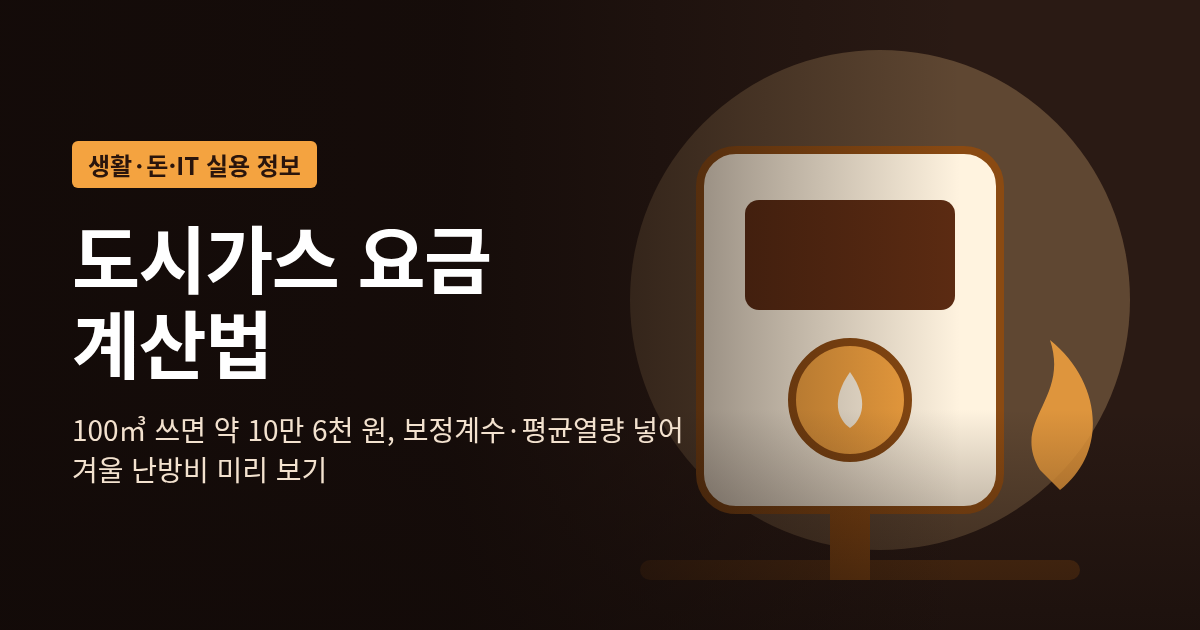
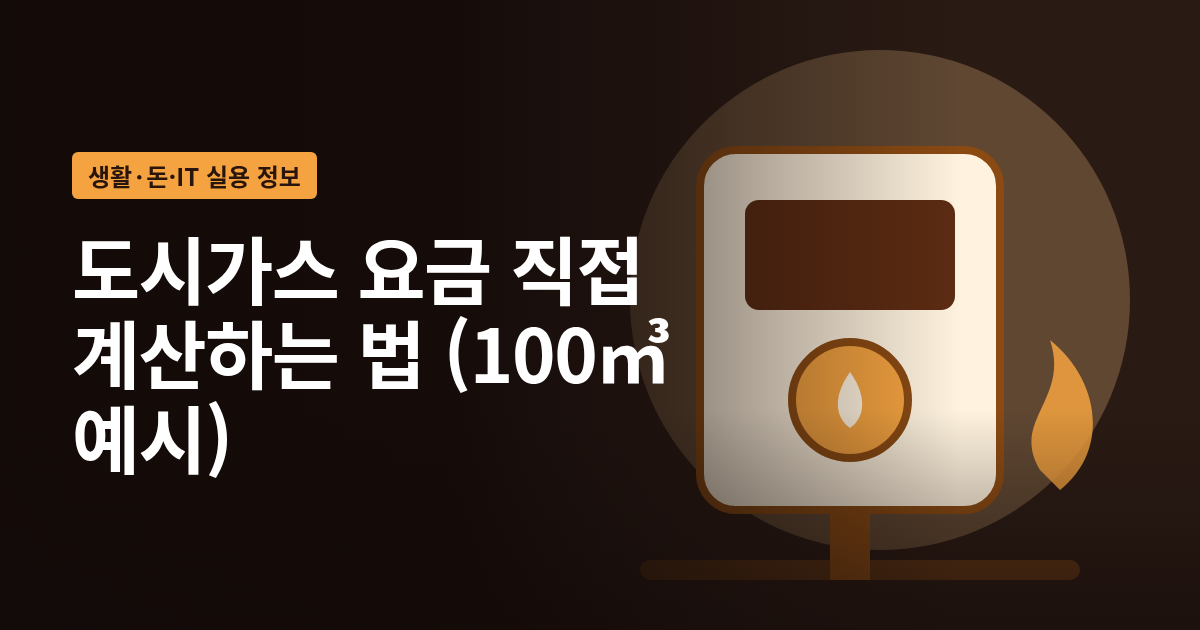
review: b3 city-gas-bill-calc-2026

Changed region(s): [[0.0617, 0.3619, 0.5858, 0.7841], [0.0617, 0.2111, 0.2775, 0.3317]]

diff --git a/index.html b/index.html
@@ -47,10 +47,10 @@
 <header><div class="bar"><h1 class="logo">블로그 검토 · wikiliter.pp.ua</h1><nav class="tabs"><a href="#b3" data-tab="b3" class="">블로그<small>wikiliter.pp.ua (Blogger)</small></a></nav></div></header>
 <div class="wrap">
 <section class="tab" id="tab-b3">
-<div class="top"><span class="badge">블로그 · wikiliter.pp.ua (Blogger)</span><span class="ttl">도시가스 요금 계산법: 100㎥ 쓰면 약 10만 6천 원, 보정계수·평균열량 넣어 겨울 난방비 미리 보기</span><button type="button" class="copy" data-tab="b3">HTML 복사</button></div>
-<div class="titlebox"><input id="title-b3" value="도시가스 요금 계산법: 100㎥ 쓰면 약 10만 6천 원, 보정계수·평균열량 넣어 겨울 난방비 미리 보기" readonly aria-label="글 제목"><button type="button" class="copyt" data-tab="b3">제목 복사</button></div>
+<div class="top"><span class="badge">블로그 · wikiliter.pp.ua (Blogger)</span><span class="ttl">도시가스 요금 직접 계산하는 법 (100㎥ 예시)</span><button type="button" class="copy" data-tab="b3">HTML 복사</button></div>
+<div class="titlebox"><input id="title-b3" value="도시가스 요금 직접 계산하는 법 (100㎥ 예시)" readonly aria-label="글 제목"><button type="button" class="copyt" data-tab="b3">제목 복사</button></div>
 <div class="titlebox"><textarea id="desc-b3" class="desc" readonly aria-label="검색 설명">도시가스 요금 계산법을 고지서 공식 그대로 풀었습니다. 사용량에 보정계수와 평균열량을 곱해 MJ로 바꾸면 100㎥는 부가세 포함 약 106,125원, 사용량별 요금표와 서울·인천 단가 비교, 경감 한도 계산까지 담았어요.</textarea><button type="button" class="copyd" data-tab="b3">검색설명 복사</button></div>
-<div class="thumb"><img src="https://kmt9934.github.io/blog-review/b3/thumbnail.png?v=2026-10-25T22:12" alt="도시가스 요금 계산법: 100㎥ 쓰면 약 10만 6천 원, 보정계수·평균열량 넣어 겨울 난방비 미리 보기 썸네일"></div>
+<div class="thumb"><img src="https://kmt9934.github.io/blog-review/b3/thumbnail.png?v=2026-10-25T22:21" alt="도시가스 요금 직접 계산하는 법 (100㎥ 예시) 썸네일"></div>
 <div class="toolbar"><button type="button" data-cmd="bold"><b>B</b></button><button type="button" data-cmd="italic"><i>I</i></button><button type="button" data-cmd="formatBlock" data-val="h2">제목</button><button type="button" data-cmd="formatBlock" data-val="h3">소제목</button><button type="button" data-cmd="formatBlock" data-val="p">본문</button><button type="button" data-cmd="insertUnorderedList">• 목록</button></div>
 <div class="editor" id="ed-b3" contenteditable="true"></div>
 <div class="hint">이 탭의 글만 수정·복사됩니다. 「제목 복사」 → 블로그 제목 칸, 「검색설명 복사」 → Blogger 오른쪽 「검색 설명」 칸, 「HTML 복사」(제목 h1 제외) → 본문(HTML 모드)에 붙여넣기. 제목 칸을 비워 두지 마세요. 자동 발행은 하지 않습니다.</div>
@@ -59,7 +59,7 @@
 </div>
 <div class="toast" id="toast">복사됨 ✓</div>
 <script>
-const POSTS = {"b3": {"title": "도시가스 요금 계산법: 100㎥ 쓰면 약 10만 6천 원, 보정계수·평균열량 넣어 겨울 난방비 미리 보기", "html": "<h1>도시가스 요금 계산법: 100㎥ 쓰면 약 10만 6천 원, 보정계수·평균열량 넣어 겨울 난방비 미리 보기<\/h1>\n<p>보일러를 다시 켜는 11월이 되면 첫 고지서 금액을 보고 놀라는 집이 많아요. 계량기 숫자 100㎥를 인천 지역 2026년 10월 기준값으로 계산하면 부가세까지 약 106,125원이 나옵니다. 1㎥에 대략 1,050원꼴이라, 이번 달 계량기 숫자만 알면 고지서가 오기 전에 금액을 어림할 수 있어요.<\/p>\n<p>이 글은 숫자 예시부터 보여 주고, 그 숫자가 어떤 공식에서 나왔는지 하나씩 풀어 봅니다. 요금 공식은 <a href=\"https://www.seoulgas.co.kr/front/payment/costCount\" style=\"color:#174ea6;\">서울도시가스 요금계산 안내<\/a>와 <a href=\"https://www.incheon.go.kr/eco/ECO020806\" style=\"color:#174ea6;\">인천광역시 도시가스요금 안내<\/a>에 적힌 산식을 그대로 썼고, 평균열량은 <a href=\"https://www.kogas.or.kr/site/koGas/userExpSplCal.do?Key=1040502000000\" style=\"color:#174ea6;\">한국가스공사 예상열량 조회<\/a>의 2026년 10월 전국(육지권역) 예상값 42.653MJ/N㎥를 넣었습니다. 단가와 계수는 2026년 10월 25일 기준이에요.<\/p>\n<h2>100㎥ 쓴 달, 고지서 공식 그대로 계산해 보기<\/h2>\n<p><img src=\"https://kmt9934.github.io/blog-review/b3/fig1.png\" alt=\"도시가스 100㎥ 요금 계산 요약 카드\"><\/p>\n<p>주택용 도시가스 요금은 지역 도시가스회사마다 표현이 조금 다르지만 뼈대는 같습니다. 인천시 안내문 기준으로 쓰면 <strong>[기본요금 + (검침량 × 온압보정계수 × 평균열량 × MJ당 단가) + 계량기교체비] × 1.1<\/strong>이에요. 마지막 1.1은 부가가치세 10%이고, 계량기교체비는 10등급 이상 계량기에만 붙는 항목이라 일반 가정 예시에서는 뺐습니다.<\/p>\n<p>인천 지역 주택용 소비자요금은 MJ당 22.5084원(도매 20.8495원 + 소매공급비용 1.6589원), 기본요금은 가구당 월 1,000원입니다. 온압보정계수는 2026년 6월 1일부터 0.9945가 적용되고 있어요. 이 값들을 100㎥에 넣으면 아래처럼 됩니다.<\/p>\n<div style=\"background:#f7faff;border:1px solid #cddbee;border-radius:14px;padding:16px 18px;margin:20px 0;color:#1c2f52;\"><h3 style=\"margin:0 0 8px;color:#1c2f52;\">인천 주택용, 한 달 100㎥ 사용 기준<\/h3><ol style=\"margin:0;padding-left:20px;line-height:1.8;color:#1c2f52;\"><li style=\"color:#1c2f52;\">보정 사용량: 100㎥ × 0.9945 = 99.45㎥<\/li><li style=\"color:#1c2f52;\">사용열량: 99.45㎥ × 42.653MJ = 약 4,241.84MJ<\/li><li style=\"color:#1c2f52;\">사용요금: 4,241.84MJ × 22.5084원 = 약 95,477원<\/li><li style=\"color:#1c2f52;\">기본요금 더하기: 95,477원 + 1,000원 = 96,477원<\/li><li style=\"color:#1c2f52;\">부가세 10% 포함: 96,477원 × 1.1 = <strong style=\"color:#1c2f52;\">약 106,125원<\/strong><\/li><\/ol><\/div>\n<p>여기서 가장 큰 숫자를 만드는 건 사용열량(MJ)이에요. 계량기가 재는 단위는 부피(㎥)인데 요금은 열량(MJ)에 매기기 때문에, 부피를 열량으로 바꾸는 단계가 꼭 들어갑니다. 고지서에 사용열량이 이미 MJ로 적혀 있다면 앞의 두 줄은 건너뛰고 그 MJ에 단가만 곱하면 돼요. 원 단위 이하 처리 방식은 회사마다 달라서 실제 고지액과 몇 원 차이는 날 수 있습니다.<\/p>\n<p>계산을 거꾸로 하면 예산 잡기에도 쓸 수 있어요. 한 달 가스비를 부가세 포함 15만 원 안에 두고 싶다면 (150,000 ÷ 1.1 − 1,000) ÷ 22.5084 ÷ (0.9945 × 42.653)을 계산하면 됩니다. 결과는 약 141.8㎥라서, 검침일 기준 한 달 계량기 숫자가 140㎥ 근처를 넘지 않게 쓰면 15만 원 선을 지킬 수 있다는 뜻이에요.<\/p>\n<h2>㎥를 MJ로 바꾸는 두 숫자, 보정계수와 평균열량<\/h2>\n<p><img src=\"https://kmt9934.github.io/blog-review/b3/fig2.png\" alt=\"온압보정계수와 평균열량 설명 요약 카드\"><\/p>\n<p><a href=\"https://www.seoulgas.co.kr/front/customer/infoBill\" style=\"color:#174ea6;\">서울도시가스 청구서 보는 방법<\/a>은 청구서 항목을 11개로 나눠 설명합니다. 그중 요금을 결정하는 칸은 4번 당월 사용량, 5번 보정계수, 6번 평균열량, 7번 사용열량이에요. 당월 사용량은 이번 달 검침 지침에서 지난달 지침을 뺀 숫자이고 단위는 ㎥입니다.<\/p>\n<p>보정계수는 기체가 온도와 압력에 따라 부피가 달라지는 점을 바로잡는 값이에요. 시·도지사가 매년 1회 고시하고, 사용압력 250mmAq 이하 계량기에 요금 고지 때 자동으로 적용됩니다. 인천은 2026년 6월 1일부터 0.9945라서, 계량기가 100㎥를 가리키면 요금 계산에는 99.45㎥가 쓰여요. 사는 지역이 다르면 이 값도 조금씩 달라집니다.<\/p>\n<p>평균열량은 해당 기간 공급된 가스의 월간 가중평균 열량(MJ/N㎥)입니다. 한국가스공사는 매달 예상열량을 공개하는데, 2026년 10월 육지권역 예상열량은 42.653MJ/N㎥(10,187kcal)이고 ±2% 범위가 붙어 있어요. 같은 달 최저 순시열량은 41.0MJ, 최고 순시열량은 44.4MJ로 공개됐습니다. 제주권역은 42.623MJ/N㎥로 따로 나와요.<\/p>\n<div style=\"overflow-x:auto;margin:20px 0;\"><table style=\"width:100%;border-collapse:collapse;font-size:15px;line-height:1.55;border:1px solid #d8e1ec;\"><thead><tr><th style=\"border:1px solid #d8e1ec;padding:10px;background:#1c2f52;color:#fff;\">청구서 항목<\/th><th style=\"border:1px solid #d8e1ec;padding:10px;background:#eaf2fb;color:#1c2f52;\">뜻<\/th><th style=\"border:1px solid #d8e1ec;padding:10px;background:#eaf2fb;color:#1c2f52;\">100㎥ 예시 값<\/th><\/tr><\/thead><tbody><tr><th style=\"border:1px solid #d8e1ec;padding:10px;text-align:left;background:#f7faff;color:#1c2f52;\">당월 사용량<\/th><td style=\"border:1px solid #d8e1ec;padding:10px;color:#1c2f52;\">이번 달 지침 − 지난달 지침(㎥)<\/td><td style=\"border:1px solid #d8e1ec;padding:10px;color:#1c2f52;\">100㎥<\/td><\/tr><tr><th style=\"border:1px solid #d8e1ec;padding:10px;text-align:left;background:#f7faff;color:#1c2f52;\">보정계수<\/th><td style=\"border:1px solid #d8e1ec;padding:10px;color:#1c2f52;\">온도·압력 보정, 시·도지사 연 1회 고시<\/td><td style=\"border:1px solid #d8e1ec;padding:10px;color:#1c2f52;\">0.9945(인천)<\/td><\/tr><tr><th style=\"border:1px solid #d8e1ec;padding:10px;text-align:left;background:#f7faff;color:#1c2f52;\">평균열량<\/th><td style=\"border:1px solid #d8e1ec;padding:10px;color:#1c2f52;\">그 기간 공급 가스의 월간 가중평균 열량<\/td><td style=\"border:1px solid #d8e1ec;padding:10px;color:#1c2f52;\">42.653MJ/N㎥<\/td><\/tr><tr><th style=\"border:1px solid #d8e1ec;padding:10px;text-align:left;background:#f7faff;color:#1c2f52;\">사용열량<\/th><td style=\"border:1px solid #d8e1ec;padding:10px;color:#1c2f52;\">고지량 × 평균열량<\/td><td style=\"border:1px solid #d8e1ec;padding:10px;color:#1c2f52;\">약 4,241.84MJ<\/td><\/tr><tr><th style=\"border:1px solid #d8e1ec;padding:10px;text-align:left;background:#f7faff;color:#1c2f52;\">사용요금<\/th><td style=\"border:1px solid #d8e1ec;padding:10px;color:#1c2f52;\">사용열량 × MJ당 단가<\/td><td style=\"border:1px solid #d8e1ec;padding:10px;color:#1c2f52;\">약 95,477원<\/td><\/tr><\/tbody><\/table><\/div>\n<p>한국가스공사 사이트에서 이 숫자를 직접 볼 때는 다음 순서로 들어가면 됩니다. 2026년 10월 25일 화면 기준이에요.<\/p>\n<ol><li>한국가스공사 누리집 상단 메뉴에서 도시가스열량제도의 예상열량 조회 화면을 엽니다.<\/li><li>년도 선택에서 2026, 월 선택에서 10을 고르고 검색을 누릅니다.<\/li><li>육지권역과 제주권역으로 나뉜 결과에서 예상열량, 최저순시열량, 최고순시열량을 읽습니다.<\/li><li>지난달 실제 값이 궁금하면 옆 탭의 열량실적 조회로 넘어갑니다.<\/li><\/ol>\n<figure><img src=\"https://kmt9934.github.io/blog-review/b3/diag1.png\" alt=\"계량기 사용량에 보정계수와 평균열량을 곱해 MJ로 바꾸고 단가를 곱한 뒤 기본요금과 부가세를 더하는 4단계 흐름\"><figcaption>㎥ → 보정 → MJ → 요금 순서. 각 단계 숫자는 위 표와 같습니다.<\/figcaption><\/figure>\n<h2>사용량별 요금표: 30㎥부터 200㎥까지<\/h2>\n<p><img src=\"https://kmt9934.github.io/blog-review/b3/fig3.png\" alt=\"도시가스 사용량별 요금표 요약 카드\"><\/p>\n<p>같은 공식에 사용량만 바꿔 넣으면 우리 집 숫자에 가까운 줄을 찾을 수 있어요. 아래 표는 인천 단가(22.5084원/MJ, 기본요금 1,000원), 보정계수 0.9945, 평균열량 42.653MJ를 고정하고 계산한 값입니다. 사용량 자체는 예시로 고른 숫자이고, 금액은 부가세 10%를 넣은 값이에요.<\/p>\n<div style=\"overflow-x:auto;margin:20px 0;\"><table style=\"width:100%;border-collapse:collapse;font-size:15px;line-height:1.55;border:1px solid #d8e1ec;\"><thead><tr><th style=\"border:1px solid #d8e1ec;padding:10px;background:#1c2f52;color:#fff;\">한 달 사용량<\/th><th style=\"border:1px solid #d8e1ec;padding:10px;background:#eaf2fb;color:#1c2f52;\">사용열량<\/th><th style=\"border:1px solid #d8e1ec;padding:10px;background:#eaf2fb;color:#1c2f52;\">부가세 포함 요금<\/th><\/tr><\/thead><tbody><tr><th style=\"border:1px solid #d8e1ec;padding:10px;text-align:left;background:#f7faff;color:#1c2f52;\">30㎥<\/th><td style=\"border:1px solid #d8e1ec;padding:10px;color:#1c2f52;\">약 1,272.55MJ<\/td><td style=\"border:1px solid #d8e1ec;padding:10px;color:#1c2f52;\">약 32,607원<\/td><\/tr><tr><th style=\"border:1px solid #d8e1ec;padding:10px;text-align:left;background:#f7faff;color:#1c2f52;\">50㎥<\/th><td style=\"border:1px solid #d8e1ec;padding:10px;color:#1c2f52;\">약 2,120.92MJ<\/td><td style=\"border:1px solid #d8e1ec;padding:10px;color:#1c2f52;\">약 53,612원<\/td><\/tr><tr><th style=\"border:1px solid #d8e1ec;padding:10px;text-align:left;background:#f7faff;color:#1c2f52;\">100㎥<\/th><td style=\"border:1px solid #d8e1ec;padding:10px;color:#1c2f52;\">약 4,241.84MJ<\/td><td style=\"border:1px solid #d8e1ec;padding:10px;color:#1c2f52;\">약 106,125원<\/td><\/tr><tr><th style=\"border:1px solid #d8e1ec;padding:10px;text-align:left;background:#f7faff;color:#1c2f52;\">150㎥<\/th><td style=\"border:1px solid #d8e1ec;padding:10px;color:#1c2f52;\">약 6,362.76MJ<\/td><td style=\"border:1px solid #d8e1ec;padding:10px;color:#1c2f52;\">약 158,637원<\/td><\/tr><tr><th style=\"border:1px solid #d8e1ec;padding:10px;text-align:left;background:#f7faff;color:#1c2f52;\">200㎥<\/th><td style=\"border:1px solid #d8e1ec;padding:10px;color:#1c2f52;\">약 8,483.68MJ<\/td><td style=\"border:1px solid #d8e1ec;padding:10px;color:#1c2f52;\">약 211,150원<\/td><\/tr><\/tbody><\/table><\/div>\n<p>표를 보면 사용량이 두 배가 되면 요금도 거의 두 배가 됩니다. 전기요금처럼 사용량 구간에 따라 단가가 올라가는 누진제가 주택용 도시가스에는 없기 때문이에요. 서울 기준으로도 주택용 취사와 난방 단가가 22.5268원으로 같습니다. 그래서 1㎥당 약 1,050원이라는 어림값을 그대로 곱해도 큰 오차가 나지 않아요.<\/p>\n<p>다만 기본요금은 사용량과 상관없이 붙습니다. 30㎥만 쓴 달에도 1,000원(인천 기준)이 더해지고, 부가세가 그 위에 붙어요. 취사만 하는 작은 집이라면 기본요금이 차지하는 비중이 상대적으로 커진다는 점이 대형 평형 집과 다른 부분입니다.<\/p>\n<p>취사와 난방을 같이 쓰는 집에는 한 가지 규칙이 더 있어요. <a href=\"http://www.citygas.or.kr/service/faq/index.jsp?category_fk=4\" style=\"color:#174ea6;\">한국도시가스협회 요금 안내<\/a>에 따르면 취사·난방 겸용은 516MJ까지 취사요금, 그 초과분에 난방요금을 적용하고 지역별로 다를 수 있다고 적혀 있습니다. 협회 FAQ는 이 기준을 12㎥로 설명하는데, 위 계수로 516MJ를 부피로 바꾸면 약 12.2㎥라 같은 이야기예요. 서울·인천처럼 두 단가가 같은 지역에서는 금액 차이가 생기지 않습니다.<\/p>\n<figure><img src=\"https://kmt9934.github.io/blog-review/b3/diag2.png\" alt=\"사용량 30, 50, 100, 150, 200세제곱미터일 때 부가세 포함 요금 막대 비교\"><figcaption>사용량에 거의 정비례합니다. 100㎥ 약 106,125원, 200㎥ 약 211,150원.<\/figcaption><\/figure>\n<h2>서울과 인천, 같은 MJ를 써도 금액이 다른 이유<\/h2>\n<p><img src=\"https://kmt9934.github.io/blog-review/b3/fig4.png\" alt=\"서울과 인천 도시가스 단가 비교 요약 카드\"><\/p>\n<p>도시가스 소비자요금은 한국가스공사가 정하는 도매요금에 지역 도시가스회사의 공급비용(소매요금)을 더한 값입니다. 도매요금은 산업통상부 장관 승인, 소매요금은 물가대책심의위원회 심의를 거쳐 지방자치단체장이 승인해요. 그래서 도매 부분은 전국이 같아도 소매 부분과 기본요금에서 지역 차이가 납니다.<\/p>\n<p><a href=\"https://sftc.seoul.go.kr/seoul/mulga/main/contents.do?menuNo=200012\" style=\"color:#174ea6;\">서울시 물가정보 도시가스 요금<\/a>을 보면 2026년 9월 1일 조정 뒤 서울 주택용은 도매 20.8495원 + 소매 1.6773원 = MJ당 22.5268원이고, 주택용은 조정 전후 변동이 0.00%였어요. <a href=\"https://www.seoulgas.co.kr/front/payment/gasPayTable\" style=\"color:#174ea6;\">서울도시가스 요금표<\/a>의 2026년 10월 1일 단가표에서도 주택용 취사·난방은 22.5268원 그대로이고 기본요금은 월 1,250원입니다. 업무난방용은 같은 날 29.0762원에서 29.8989원으로 올랐지만 주택용은 그대로였어요.<\/p>\n<div style=\"overflow-x:auto;margin:20px 0;\"><table style=\"width:100%;border-collapse:collapse;font-size:15px;line-height:1.55;border:1px solid #d8e1ec;\"><thead><tr><th style=\"border:1px solid #d8e1ec;padding:10px;background:#1c2f52;color:#fff;\">항목<\/th><th style=\"border:1px solid #d8e1ec;padding:10px;background:#eaf2fb;color:#1c2f52;\">서울(서울도시가스)<\/th><th style=\"border:1px solid #d8e1ec;padding:10px;background:#eaf2fb;color:#1c2f52;\">인천<\/th><\/tr><\/thead><tbody><tr><th style=\"border:1px solid #d8e1ec;padding:10px;text-align:left;background:#f7faff;color:#1c2f52;\">도매요금(원/MJ)<\/th><td style=\"border:1px solid #d8e1ec;padding:10px;color:#1c2f52;\">20.8495<\/td><td style=\"border:1px solid #d8e1ec;padding:10px;color:#1c2f52;\">20.8495<\/td><\/tr><tr><th style=\"border:1px solid #d8e1ec;padding:10px;text-align:left;background:#f7faff;color:#1c2f52;\">소매공급비용(원/MJ)<\/th><td style=\"border:1px solid #d8e1ec;padding:10px;color:#1c2f52;\">1.6773<\/td><td style=\"border:1px solid #d8e1ec;padding:10px;color:#1c2f52;\">1.6589<\/td><\/tr><tr><th style=\"border:1px solid #d8e1ec;padding:10px;text-align:left;background:#f7faff;color:#1c2f52;\">주택용 소비자요금(원/MJ)<\/th><td style=\"border:1px solid #d8e1ec;padding:10px;color:#1c2f52;\">22.5268<\/td><td style=\"border:1px solid #d8e1ec;padding:10px;color:#1c2f52;\">22.5084<\/td><\/tr><tr><th style=\"border:1px solid #d8e1ec;padding:10px;text-align:left;background:#f7faff;color:#1c2f52;\">기본요금(월·가구)<\/th><td style=\"border:1px solid #d8e1ec;padding:10px;color:#1c2f52;\">1,250원<\/td><td style=\"border:1px solid #d8e1ec;padding:10px;color:#1c2f52;\">1,000원<\/td><\/tr><tr><th style=\"border:1px solid #d8e1ec;padding:10px;text-align:left;background:#f7faff;color:#1c2f52;\">4,241.84MJ 사용 시 부가세 포함<\/th><td style=\"border:1px solid #d8e1ec;padding:10px;color:#1c2f52;\">약 106,486원<\/td><td style=\"border:1px solid #d8e1ec;padding:10px;color:#1c2f52;\">약 106,125원<\/td><\/tr><\/tbody><\/table><\/div>\n<p>마지막 줄은 두 지역에서 사용열량이 똑같이 4,241.84MJ라고 놓고 비교한 값이에요. 실제로는 서울의 보정계수가 인천과 다를 수 있어서 같은 100㎥라도 MJ가 조금 달라집니다. 그래서 지역을 비교할 때는 ㎥보다 고지서의 사용열량(MJ)을 기준으로 잡는 편이 정확해요.<\/p>\n<p>두 지역 차이는 같은 열량 기준으로 한 달 약 361원입니다. 이 중 기본요금 차이 250원에 부가세를 붙인 275원이 대부분이고, 나머지는 MJ당 0.0184원 소매공급비용 차이에서 나와요. 이사를 앞두고 지역별 가스비를 비교한다면 단가보다 집의 단열과 사용 습관이 훨씬 큰 변수라는 뜻입니다.<\/p>\n<h2>고지서 금액이 예상과 다를 때 손해 보는 경우<\/h2>\n<p><img src=\"https://kmt9934.github.io/blog-review/b3/fig5.png\" alt=\"도시가스 요금 손해 사례 요약 카드\"><\/p>\n<p>계산한 금액과 고지서가 크게 다르면 먼저 지침 숫자를 봅니다. 고지서에는 기물번호가 인쇄돼 있는데, <a href=\"http://www.citygas.or.kr/service/faq/index.jsp?category_fk=4\" style=\"color:#174ea6;\">한국도시가스협회 FAQ<\/a>는 이 번호와 실제 계량기 번호가 맞는지 대조하라고 안내해요. 번호가 다르면 다른 집 계량기 사용량이 청구됐을 가능성이 있습니다.<\/p>\n<p>검침을 못 했거나 계량기가 고장 나면 공급규정 제21조(사용량의 산정)에 따라 사용량을 추정해 매깁니다. 이 경우 실제 사용량과 차이가 날 수 있고, 다음 정상 검침 때 차이가 정산되는 구조예요. 계량기가 집 안에 있는 집은 정해진 날 지침을 자가검침표에 적어 두면 추정 청구를 줄일 수 있습니다.<\/p>\n<div style=\"overflow-x:auto;margin:20px 0;\"><table style=\"width:100%;border-collapse:collapse;font-size:15px;line-height:1.55;border:1px solid #d8e1ec;\"><thead><tr><th style=\"border:1px solid #d8e1ec;padding:10px;background:#1c2f52;color:#fff;\">상황<\/th><th style=\"border:1px solid #d8e1ec;padding:10px;background:#eaf2fb;color:#1c2f52;\">결과<\/th><th style=\"border:1px solid #d8e1ec;padding:10px;background:#eaf2fb;color:#1c2f52;\">대응<\/th><\/tr><\/thead><tbody><tr><th style=\"border:1px solid #d8e1ec;padding:10px;text-align:left;background:#f7faff;color:#1c2f52;\">쓰지 않는 빈집<\/th><td style=\"border:1px solid #d8e1ec;padding:10px;color:#1c2f52;\">중지 신청 없으면 기본요금 계속 고지<\/td><td style=\"border:1px solid #d8e1ec;padding:10px;color:#1c2f52;\">도시가스회사에 사용 중지 신청<\/td><\/tr><tr><th style=\"border:1px solid #d8e1ec;padding:10px;text-align:left;background:#f7faff;color:#1c2f52;\">이사 오기 전 체납<\/th><td style=\"border:1px solid #d8e1ec;padding:10px;color:#1c2f52;\">명의변경 신청 없으면 권리·의무 승계<\/td><td style=\"border:1px solid #d8e1ec;padding:10px;color:#1c2f52;\">입주 전 체납 여부 조회<\/td><\/tr><tr><th style=\"border:1px solid #d8e1ec;padding:10px;text-align:left;background:#f7faff;color:#1c2f52;\">요금에 이의가 있음<\/th><td style=\"border:1px solid #d8e1ec;padding:10px;color:#1c2f52;\">통지받은 날부터 15일 이내 이의신청<\/td><td style=\"border:1px solid #d8e1ec;padding:10px;color:#1c2f52;\">7일 이내 심사 결과 통지<\/td><\/tr><tr><th style=\"border:1px solid #d8e1ec;padding:10px;text-align:left;background:#f7faff;color:#1c2f52;\">고지서를 못 받음<\/th><td style=\"border:1px solid #d8e1ec;padding:10px;color:#1c2f52;\">납부 마감 7일 전까지 송달이 원칙<\/td><td style=\"border:1px solid #d8e1ec;padding:10px;color:#1c2f52;\">지역관리소에 재송달 요청<\/td><\/tr><\/tbody><\/table><\/div>\n<p>이사철에는 정산이 자주 꼬여요. 도시가스는 쓴 뒤에 내는 후불제라서, 전출·전입일까지의 사용분은 나가는 사람과 들어오는 사람이 계량기 지침을 기준으로 직접 정산해야 합니다. 새로 이사 온 사람이 명의변경을 하지 않으면 전 사용자의 권리를 승계한 것으로 보기 때문에, 이사 당일 지침을 사진으로 남겨 두고 도시가스회사에 연락하는 순서가 안전해요.<\/p>\n<p>요금 자체에 이의가 있다면 기한이 짧습니다. <a href=\"https://easylaw.go.kr/CSP/CnpClsMain.laf?ccfNo=3&cciNo=1&cnpClsNo=1&csmSeq=1008\" style=\"color:#174ea6;\">찾기쉬운 생활법령정보<\/a>에 따르면 서울특별시 도시가스 공급규정 제23조 기준으로 통지를 받은 날부터 15일 안에 해당 도시가스회사에 이의신청을 해야 하고, 신청한 날부터 7일 안에 심사 내용을 통지받아요. 같은 안내에 도시가스요금에는 부가가치세 10%가 함께 청구된다는 근거(부가가치세법 제2조·제30조)도 정리돼 있습니다.<\/p>\n<h2>요금 경감 대상이라면 한도부터 계산하기<\/h2>\n<p><img src=\"https://kmt9934.github.io/blog-review/b3/fig6.png\" alt=\"도시가스 요금 경감 한도 요약 카드\"><\/p>\n<p>기초생활수급자, 차상위계층, 장애의 정도가 심한 장애인, 국가유공자(1~3급), 독립유공자, 다자녀가구(자녀 또는 손자녀 3명 이상)는 도시가스요금 경감을 받을 수 있어요. 금액은 <a href=\"https://www.kogas.or.kr/site/koGas/1020408030000\" style=\"color:#174ea6;\">한국가스공사 사회적 배려대상자 안내<\/a>에 실린 산업통상부고시 제2025-024호 기준이고, 기본요금을 뺀 사용요금에만 적용됩니다.<\/p>\n<div style=\"overflow-x:auto;margin:20px 0;\"><table style=\"width:100%;border-collapse:collapse;font-size:15px;line-height:1.55;border:1px solid #d8e1ec;\"><thead><tr><th style=\"border:1px solid #d8e1ec;padding:10px;background:#1c2f52;color:#fff;\">대상(에너지이용권 미수급)<\/th><th style=\"border:1px solid #d8e1ec;padding:10px;background:#eaf2fb;color:#1c2f52;\">동절기(12~3월) 월 한도<\/th><th style=\"border:1px solid #d8e1ec;padding:10px;background:#eaf2fb;color:#1c2f52;\">4~11월 월 한도<\/th><\/tr><\/thead><tbody><tr><th style=\"border:1px solid #d8e1ec;padding:10px;text-align:left;background:#f7faff;color:#1c2f52;\">생계·의료급여 수급자<\/th><td style=\"border:1px solid #d8e1ec;padding:10px;color:#1c2f52;\">148,000원<\/td><td style=\"border:1px solid #d8e1ec;padding:10px;color:#1c2f52;\">9,900원<\/td><\/tr><tr><th style=\"border:1px solid #d8e1ec;padding:10px;text-align:left;background:#f7faff;color:#1c2f52;\">주거급여 수급자, 차상위계층<\/th><td style=\"border:1px solid #d8e1ec;padding:10px;color:#1c2f52;\">148,000원<\/td><td style=\"border:1px solid #d8e1ec;padding:10px;color:#1c2f52;\">4,950원<\/td><\/tr><tr><th style=\"border:1px solid #d8e1ec;padding:10px;text-align:left;background:#f7faff;color:#1c2f52;\">교육급여 수급자<\/th><td style=\"border:1px solid #d8e1ec;padding:10px;color:#1c2f52;\">148,000원<\/td><td style=\"border:1px solid #d8e1ec;padding:10px;color:#1c2f52;\">2,470원<\/td><\/tr><tr><th style=\"border:1px solid #d8e1ec;padding:10px;text-align:left;background:#f7faff;color:#1c2f52;\">중증 장애인, 국가유공자, 독립유공자<\/th><td style=\"border:1px solid #d8e1ec;padding:10px;color:#1c2f52;\">72,000원<\/td><td style=\"border:1px solid #d8e1ec;padding:10px;color:#1c2f52;\">9,900원<\/td><\/tr><tr><th style=\"border:1px solid #d8e1ec;padding:10px;text-align:left;background:#f7faff;color:#1c2f52;\">다자녀가구, 차상위계층 확인서 발급대상<\/th><td style=\"border:1px solid #d8e1ec;padding:10px;color:#1c2f52;\">18,000원<\/td><td style=\"border:1px solid #d8e1ec;padding:10px;color:#1c2f52;\">2,470원<\/td><\/tr><\/tbody><\/table><\/div>\n<p>에너지바우처(에너지이용권)를 같이 받는 수급자·차상위계층은 동절기 한도가 월 86,000원으로 낮아져요. 자격이 두 개 이상이면 신청 때 가장 높은 한도가 적용됩니다. 그리고 변동 사항이 생긴 날부터 신청서를 낸 날까지는 소급 적용이 안 되기 때문에, 자격이 생긴 달에 바로 신청해야 손해가 없어요.<\/p>\n<div style=\"background:#f7faff;border:1px solid #cddbee;border-radius:14px;padding:16px 18px;margin:20px 0;color:#1c2f52;\"><h3 style=\"margin:0 0 8px;color:#1c2f52;\">12월에 150㎥를 쓴 두 가구 비교(인천 단가)<\/h3><ol style=\"margin:0;padding-left:20px;line-height:1.8;color:#1c2f52;\"><li style=\"color:#1c2f52;\">사용요금(기본요금 제외): 6,362.76MJ × 22.5084원 = 약 143,216원<\/li><li style=\"color:#1c2f52;\">다자녀가구: 한도 18,000원 경감 → 경감 뒤 사용요금 약 125,216원<\/li><li style=\"color:#1c2f52;\">생계급여 수급자(바우처 미수급): 한도 148,000원이 사용요금 143,216원보다 커서 사용요금 전액인 약 143,216원까지 경감<\/li><li style=\"color:#1c2f52;\">두 가구 모두 기본요금 1,000원은 경감 대상이 아니라 그대로 남습니다<\/li><\/ol><\/div>\n<p>같은 11월이라도 동절기 전이라 한도가 작다는 점이 함정이에요. 11월은 4~11월 구간이라 다자녀가구 한도가 2,470원이고, 12월 사용분부터 18,000원 한도가 적용됩니다. 신청은 주민등록표 주소지의 도시가스회사, 행정복지센터, 지방보훈청에 방문하거나 정부24·복지로에서 온라인으로 하면 되고, 수급자 증명이나 복지카드 같은 서류는 행정정보 공동이용에 동의하면 따로 내지 않아도 돼요.<\/p>\n<div style=\"background:#eef4fb;border:1px solid #cddbee;border-radius:14px;padding:16px 18px;margin:20px 0;color:#1c2f52;\"><h3 style=\"margin:0 0 8px;color:#1c2f52;\">요금 계산과 경감 신청 공식 페이지<\/h3><p style=\"margin:0 0 12px;line-height:1.7;color:#1c2f52;\">요금계산 화면은 사용계약번호와 이번 달 지침을 넣으면 대략적인 금액을 보여 줍니다. 경감 신청은 상시 접수예요.<\/p><p style=\"margin:0 0 8px;color:#1c2f52;\"><a class=\"official-link-btn\" href=\"https://www.gov.kr/portal/rcvfvrSvc/dtlEx/B55121000003\" style=\"display:inline-block;padding:10px 16px;border-radius:10px;background:#174ea6;color:#ffffff;font-weight:700;text-decoration:none;\">정부24 도시가스요금 경감 안내·신청 →<\/a><\/p><p style=\"margin:0 0 8px;color:#1c2f52;\"><a class=\"official-link-btn\" href=\"https://www.seoulgas.co.kr/front/payment/costCount\" style=\"display:inline-block;padding:10px 16px;border-radius:10px;background:#ffffff;border:2px solid #174ea6;color:#174ea6;font-weight:700;text-decoration:none;\">서울도시가스 요금계산 화면 열기 →<\/a><\/p><p style=\"margin:0 0 8px;color:#1c2f52;\"><a class=\"official-link-btn\" href=\"https://www.kogas.or.kr/site/koGas/userExpSplCal.do?Key=1040502000000\" style=\"display:inline-block;padding:10px 16px;border-radius:10px;background:#ffffff;border:2px solid #174ea6;color:#174ea6;font-weight:700;text-decoration:none;\">한국가스공사 월별 예상열량 조회 →<\/a><\/p><\/div>\n<h3>이 글의 숫자 출처<\/h3><ul><li><a href=\"https://www.seoulgas.co.kr/front/payment/gasPayTable\">서울도시가스 가스요금표(2026년 10월 1일 단가표)<\/a><\/li><li><a href=\"https://www.seoulgas.co.kr/front/customer/infoBill\">서울도시가스 요금계산·청구서 보는 방법<\/a><\/li><li><a href=\"https://sftc.seoul.go.kr/seoul/mulga/main/contents.do?menuNo=200012\">서울시 물가정보 도시가스 용도별 소비자요금<\/a><\/li><li><a href=\"https://www.incheon.go.kr/eco/ECO020806\">인천광역시 도시가스요금 안내(2026. 8. 1. 기준)<\/a><\/li><li><a href=\"https://www.kogas.or.kr/site/koGas/userExpSplCal.do?Key=1040502000000\">한국가스공사 예상열량 조회<\/a><\/li><li><a href=\"https://www.kogas.or.kr/site/koGas/1020408030000\">한국가스공사 사회적 배려대상자 경감 기준<\/a><\/li><li><a href=\"https://www.gov.kr/portal/rcvfvrSvc/dtlEx/B55121000003\">정부24 사회적 배려대상자 도시가스요금 경감<\/a><\/li><li><a href=\"https://easylaw.go.kr/CSP/CnpClsMain.laf?ccfNo=3&cciNo=1&cnpClsNo=1&csmSeq=1008\">찾기쉬운 생활법령정보 도시가스 사용하기<\/a><\/li><li><a href=\"http://www.citygas.or.kr/service/faq/index.jsp?category_fk=4\">한국도시가스협회 자주 묻는 질문<\/a><\/li><\/ul>"}};
+const POSTS = {"b3": {"title": "도시가스 요금 직접 계산하는 법 (100㎥ 예시)", "html": "<h1>도시가스 요금 직접 계산하는 법 (100㎥ 예시)<\/h1>\n<p>보일러를 다시 켜는 11월이 되면 첫 고지서 금액을 보고 놀라는 집이 많아요. 계량기 숫자 100㎥를 인천 지역 2026년 10월 기준값으로 계산하면 부가세까지 약 106,125원이 나옵니다. 1㎥에 대략 1,050원꼴이라, 이번 달 계량기 숫자만 알면 고지서가 오기 전에 금액을 어림할 수 있어요.<\/p>\n<p>이 글은 숫자 예시부터 보여 주고, 그 숫자가 어떤 공식에서 나왔는지 하나씩 풀어 봅니다. 요금 공식은 <a href=\"https://www.seoulgas.co.kr/front/payment/costCount\" style=\"color:#174ea6;\">서울도시가스 요금계산 안내<\/a>와 <a href=\"https://www.incheon.go.kr/eco/ECO020806\" style=\"color:#174ea6;\">인천광역시 도시가스요금 안내<\/a>에 적힌 산식을 그대로 썼고, 평균열량은 <a href=\"https://www.kogas.or.kr/site/koGas/userExpSplCal.do?Key=1040502000000\" style=\"color:#174ea6;\">한국가스공사 예상열량 조회<\/a>의 2026년 10월 전국(육지권역) 예상값 42.653MJ/N㎥를 넣었습니다. 단가와 계수는 2026년 10월 25일 기준이에요.<\/p>\n<h2>100㎥ 쓴 달, 고지서 공식 그대로 계산해 보기<\/h2>\n<p><img src=\"https://kmt9934.github.io/blog-review/b3/fig1.png\" alt=\"도시가스 100㎥ 요금 계산 요약 카드\"><\/p>\n<p>주택용 도시가스 요금은 지역 도시가스회사마다 표현이 조금 다르지만 뼈대는 같습니다. 인천시 안내문 기준으로 쓰면 <strong>[기본요금 + (검침량 × 온압보정계수 × 평균열량 × MJ당 단가) + 계량기교체비] × 1.1<\/strong>이에요. 마지막 1.1은 부가가치세 10%이고, 계량기교체비는 10등급 이상 계량기에만 붙는 항목이라 일반 가정 예시에서는 뺐습니다.<\/p>\n<p>인천 지역 주택용 소비자요금은 MJ당 22.5084원(도매 20.8495원 + 소매공급비용 1.6589원), 기본요금은 가구당 월 1,000원입니다. 온압보정계수는 2026년 6월 1일부터 0.9945가 적용되고 있어요. 이 값들을 100㎥에 넣으면 아래처럼 됩니다.<\/p>\n<div style=\"background:#f7faff;border:1px solid #cddbee;border-radius:14px;padding:16px 18px;margin:20px 0;color:#1c2f52;\"><h3 style=\"margin:0 0 8px;color:#1c2f52;\">인천 주택용, 한 달 100㎥ 사용 기준<\/h3><ol style=\"margin:0;padding-left:20px;line-height:1.8;color:#1c2f52;\"><li style=\"color:#1c2f52;\">보정 사용량: 100㎥ × 0.9945 = 99.45㎥<\/li><li style=\"color:#1c2f52;\">사용열량: 99.45㎥ × 42.653MJ = 약 4,241.84MJ<\/li><li style=\"color:#1c2f52;\">사용요금: 4,241.84MJ × 22.5084원 = 약 95,477원<\/li><li style=\"color:#1c2f52;\">기본요금 더하기: 95,477원 + 1,000원 = 96,477원<\/li><li style=\"color:#1c2f52;\">부가세 10% 포함: 96,477원 × 1.1 = <strong style=\"color:#1c2f52;\">약 106,125원<\/strong><\/li><\/ol><\/div>\n<p>여기서 가장 큰 숫자를 만드는 건 사용열량(MJ)이에요. 계량기가 재는 단위는 부피(㎥)인데 요금은 열량(MJ)에 매기기 때문에, 부피를 열량으로 바꾸는 단계가 꼭 들어갑니다. 고지서에 사용열량이 이미 MJ로 적혀 있다면 앞의 두 줄은 건너뛰고 그 MJ에 단가만 곱하면 돼요. 원 단위 이하 처리 방식은 회사마다 달라서 실제 고지액과 몇 원 차이는 날 수 있습니다.<\/p>\n<p>계산을 거꾸로 하면 예산 잡기에도 쓸 수 있어요. 한 달 가스비를 부가세 포함 15만 원 안에 두고 싶다면 (150,000 ÷ 1.1 − 1,000) ÷ 22.5084 ÷ (0.9945 × 42.653)을 계산하면 됩니다. 결과는 약 141.8㎥라서, 검침일 기준 한 달 계량기 숫자가 140㎥ 근처를 넘지 않게 쓰면 15만 원 선을 지킬 수 있다는 뜻이에요.<\/p>\n<h2>㎥를 MJ로 바꾸는 두 숫자, 보정계수와 평균열량<\/h2>\n<p><img src=\"https://kmt9934.github.io/blog-review/b3/fig2.png\" alt=\"온압보정계수와 평균열량 설명 요약 카드\"><\/p>\n<p><a href=\"https://www.seoulgas.co.kr/front/customer/infoBill\" style=\"color:#174ea6;\">서울도시가스 청구서 보는 방법<\/a>은 청구서 항목을 11개로 나눠 설명합니다. 그중 요금을 결정하는 칸은 4번 당월 사용량, 5번 보정계수, 6번 평균열량, 7번 사용열량이에요. 당월 사용량은 이번 달 검침 지침에서 지난달 지침을 뺀 숫자이고 단위는 ㎥입니다.<\/p>\n<p>보정계수는 기체가 온도와 압력에 따라 부피가 달라지는 점을 바로잡는 값이에요. 시·도지사가 매년 1회 고시하고, 사용압력 250mmAq 이하 계량기에 요금 고지 때 자동으로 적용됩니다. 인천은 2026년 6월 1일부터 0.9945라서, 계량기가 100㎥를 가리키면 요금 계산에는 99.45㎥가 쓰여요. 사는 지역이 다르면 이 값도 조금씩 달라집니다.<\/p>\n<p>평균열량은 해당 기간 공급된 가스의 월간 가중평균 열량(MJ/N㎥)입니다. 한국가스공사는 매달 예상열량을 공개하는데, 2026년 10월 육지권역 예상열량은 42.653MJ/N㎥(10,187kcal)이고 ±2% 범위가 붙어 있어요. 같은 달 최저 순시열량은 41.0MJ, 최고 순시열량은 44.4MJ로 공개됐습니다. 제주권역은 42.623MJ/N㎥로 따로 나와요.<\/p>\n<div style=\"overflow-x:auto;margin:20px 0;\"><table style=\"width:100%;border-collapse:collapse;font-size:15px;line-height:1.55;border:1px solid #d8e1ec;\"><thead><tr><th style=\"border:1px solid #d8e1ec;padding:10px;background:#1c2f52;color:#fff;\">청구서 항목<\/th><th style=\"border:1px solid #d8e1ec;padding:10px;background:#eaf2fb;color:#1c2f52;\">뜻<\/th><th style=\"border:1px solid #d8e1ec;padding:10px;background:#eaf2fb;color:#1c2f52;\">100㎥ 예시 값<\/th><\/tr><\/thead><tbody><tr><th style=\"border:1px solid #d8e1ec;padding:10px;text-align:left;background:#f7faff;color:#1c2f52;\">당월 사용량<\/th><td style=\"border:1px solid #d8e1ec;padding:10px;color:#1c2f52;\">이번 달 지침 − 지난달 지침(㎥)<\/td><td style=\"border:1px solid #d8e1ec;padding:10px;color:#1c2f52;\">100㎥<\/td><\/tr><tr><th style=\"border:1px solid #d8e1ec;padding:10px;text-align:left;background:#f7faff;color:#1c2f52;\">보정계수<\/th><td style=\"border:1px solid #d8e1ec;padding:10px;color:#1c2f52;\">온도·압력 보정, 시·도지사 연 1회 고시<\/td><td style=\"border:1px solid #d8e1ec;padding:10px;color:#1c2f52;\">0.9945(인천)<\/td><\/tr><tr><th style=\"border:1px solid #d8e1ec;padding:10px;text-align:left;background:#f7faff;color:#1c2f52;\">평균열량<\/th><td style=\"border:1px solid #d8e1ec;padding:10px;color:#1c2f52;\">그 기간 공급 가스의 월간 가중평균 열량<\/td><td style=\"border:1px solid #d8e1ec;padding:10px;color:#1c2f52;\">42.653MJ/N㎥<\/td><\/tr><tr><th style=\"border:1px solid #d8e1ec;padding:10px;text-align:left;background:#f7faff;color:#1c2f52;\">사용열량<\/th><td style=\"border:1px solid #d8e1ec;padding:10px;color:#1c2f52;\">고지량 × 평균열량<\/td><td style=\"border:1px solid #d8e1ec;padding:10px;color:#1c2f52;\">약 4,241.84MJ<\/td><\/tr><tr><th style=\"border:1px solid #d8e1ec;padding:10px;text-align:left;background:#f7faff;color:#1c2f52;\">사용요금<\/th><td style=\"border:1px solid #d8e1ec;padding:10px;color:#1c2f52;\">사용열량 × MJ당 단가<\/td><td style=\"border:1px solid #d8e1ec;padding:10px;color:#1c2f52;\">약 95,477원<\/td><\/tr><\/tbody><\/table><\/div>\n<p>한국가스공사 사이트에서 이 숫자를 직접 볼 때는 다음 순서로 들어가면 됩니다. 2026년 10월 25일 화면 기준이에요.<\/p>\n<ol><li>한국가스공사 누리집 상단 메뉴에서 도시가스열량제도의 예상열량 조회 화면을 엽니다.<\/li><li>년도 선택에서 2026, 월 선택에서 10을 고르고 검색을 누릅니다.<\/li><li>육지권역과 제주권역으로 나뉜 결과에서 예상열량, 최저순시열량, 최고순시열량을 읽습니다.<\/li><li>지난달 실제 값이 궁금하면 옆 탭의 열량실적 조회로 넘어갑니다.<\/li><\/ol>\n<figure><img src=\"https://kmt9934.github.io/blog-review/b3/diag1.png\" alt=\"계량기 사용량에 보정계수와 평균열량을 곱해 MJ로 바꾸고 단가를 곱한 뒤 기본요금과 부가세를 더하는 4단계 흐름\"><figcaption>㎥ → 보정 → MJ → 요금 순서. 각 단계 숫자는 위 표와 같습니다.<\/figcaption><\/figure>\n<h2>사용량별 요금표: 30㎥부터 200㎥까지<\/h2>\n<p><img src=\"https://kmt9934.github.io/blog-review/b3/fig3.png\" alt=\"도시가스 사용량별 요금표 요약 카드\"><\/p>\n<p>같은 공식에 사용량만 바꿔 넣으면 우리 집 숫자에 가까운 줄을 찾을 수 있어요. 아래 표는 인천 단가(22.5084원/MJ, 기본요금 1,000원), 보정계수 0.9945, 평균열량 42.653MJ를 고정하고 계산한 값입니다. 사용량 자체는 예시로 고른 숫자이고, 금액은 부가세 10%를 넣은 값이에요.<\/p>\n<div style=\"overflow-x:auto;margin:20px 0;\"><table style=\"width:100%;border-collapse:collapse;font-size:15px;line-height:1.55;border:1px solid #d8e1ec;\"><thead><tr><th style=\"border:1px solid #d8e1ec;padding:10px;background:#1c2f52;color:#fff;\">한 달 사용량<\/th><th style=\"border:1px solid #d8e1ec;padding:10px;background:#eaf2fb;color:#1c2f52;\">사용열량<\/th><th style=\"border:1px solid #d8e1ec;padding:10px;background:#eaf2fb;color:#1c2f52;\">부가세 포함 요금<\/th><\/tr><\/thead><tbody><tr><th style=\"border:1px solid #d8e1ec;padding:10px;text-align:left;background:#f7faff;color:#1c2f52;\">30㎥<\/th><td style=\"border:1px solid #d8e1ec;padding:10px;color:#1c2f52;\">약 1,272.55MJ<\/td><td style=\"border:1px solid #d8e1ec;padding:10px;color:#1c2f52;\">약 32,607원<\/td><\/tr><tr><th style=\"border:1px solid #d8e1ec;padding:10px;text-align:left;background:#f7faff;color:#1c2f52;\">50㎥<\/th><td style=\"border:1px solid #d8e1ec;padding:10px;color:#1c2f52;\">약 2,120.92MJ<\/td><td style=\"border:1px solid #d8e1ec;padding:10px;color:#1c2f52;\">약 53,612원<\/td><\/tr><tr><th style=\"border:1px solid #d8e1ec;padding:10px;text-align:left;background:#f7faff;color:#1c2f52;\">100㎥<\/th><td style=\"border:1px solid #d8e1ec;padding:10px;color:#1c2f52;\">약 4,241.84MJ<\/td><td style=\"border:1px solid #d8e1ec;padding:10px;color:#1c2f52;\">약 106,125원<\/td><\/tr><tr><th style=\"border:1px solid #d8e1ec;padding:10px;text-align:left;background:#f7faff;color:#1c2f52;\">150㎥<\/th><td style=\"border:1px solid #d8e1ec;padding:10px;color:#1c2f52;\">약 6,362.76MJ<\/td><td style=\"border:1px solid #d8e1ec;padding:10px;color:#1c2f52;\">약 158,637원<\/td><\/tr><tr><th style=\"border:1px solid #d8e1ec;padding:10px;text-align:left;background:#f7faff;color:#1c2f52;\">200㎥<\/th><td style=\"border:1px solid #d8e1ec;padding:10px;color:#1c2f52;\">약 8,483.68MJ<\/td><td style=\"border:1px solid #d8e1ec;padding:10px;color:#1c2f52;\">약 211,150원<\/td><\/tr><\/tbody><\/table><\/div>\n<p>표를 보면 사용량이 두 배가 되면 요금도 거의 두 배가 됩니다. 전기요금처럼 사용량 구간에 따라 단가가 올라가는 누진제가 주택용 도시가스에는 없기 때문이에요. 서울 기준으로도 주택용 취사와 난방 단가가 22.5268원으로 같습니다. 그래서 1㎥당 약 1,050원이라는 어림값을 그대로 곱해도 큰 오차가 나지 않아요.<\/p>\n<p>다만 기본요금은 사용량과 상관없이 붙습니다. 30㎥만 쓴 달에도 1,000원(인천 기준)이 더해지고, 부가세가 그 위에 붙어요. 취사만 하는 작은 집이라면 기본요금이 차지하는 비중이 상대적으로 커진다는 점이 대형 평형 집과 다른 부분입니다.<\/p>\n<p>취사와 난방을 같이 쓰는 집에는 한 가지 규칙이 더 있어요. <a href=\"http://www.citygas.or.kr/service/faq/index.jsp?category_fk=4\" style=\"color:#174ea6;\">한국도시가스협회 요금 안내<\/a>에 따르면 취사·난방 겸용은 516MJ까지 취사요금, 그 초과분에 난방요금을 적용하고 지역별로 다를 수 있다고 적혀 있습니다. 협회 FAQ는 이 기준을 12㎥로 설명하는데, 위 계수로 516MJ를 부피로 바꾸면 약 12.2㎥라 같은 이야기예요. 서울·인천처럼 두 단가가 같은 지역에서는 금액 차이가 생기지 않습니다.<\/p>\n<figure><img src=\"https://kmt9934.github.io/blog-review/b3/diag2.png\" alt=\"사용량 30, 50, 100, 150, 200세제곱미터일 때 부가세 포함 요금 막대 비교\"><figcaption>사용량에 거의 정비례합니다. 100㎥ 약 106,125원, 200㎥ 약 211,150원.<\/figcaption><\/figure>\n<h2>서울과 인천, 같은 MJ를 써도 금액이 다른 이유<\/h2>\n<p><img src=\"https://kmt9934.github.io/blog-review/b3/fig4.png\" alt=\"서울과 인천 도시가스 단가 비교 요약 카드\"><\/p>\n<p>도시가스 소비자요금은 한국가스공사가 정하는 도매요금에 지역 도시가스회사의 공급비용(소매요금)을 더한 값입니다. 도매요금은 산업통상부 장관 승인, 소매요금은 물가대책심의위원회 심의를 거쳐 지방자치단체장이 승인해요. 그래서 도매 부분은 전국이 같아도 소매 부분과 기본요금에서 지역 차이가 납니다.<\/p>\n<p><a href=\"https://sftc.seoul.go.kr/seoul/mulga/main/contents.do?menuNo=200012\" style=\"color:#174ea6;\">서울시 물가정보 도시가스 요금<\/a>을 보면 2026년 9월 1일 조정 뒤 서울 주택용은 도매 20.8495원 + 소매 1.6773원 = MJ당 22.5268원이고, 주택용은 조정 전후 변동이 0.00%였어요. <a href=\"https://www.seoulgas.co.kr/front/payment/gasPayTable\" style=\"color:#174ea6;\">서울도시가스 요금표<\/a>의 2026년 10월 1일 단가표에서도 주택용 취사·난방은 22.5268원 그대로이고 기본요금은 월 1,250원입니다. 업무난방용은 같은 날 29.0762원에서 29.8989원으로 올랐지만 주택용은 그대로였어요.<\/p>\n<div style=\"overflow-x:auto;margin:20px 0;\"><table style=\"width:100%;border-collapse:collapse;font-size:15px;line-height:1.55;border:1px solid #d8e1ec;\"><thead><tr><th style=\"border:1px solid #d8e1ec;padding:10px;background:#1c2f52;color:#fff;\">항목<\/th><th style=\"border:1px solid #d8e1ec;padding:10px;background:#eaf2fb;color:#1c2f52;\">서울(서울도시가스)<\/th><th style=\"border:1px solid #d8e1ec;padding:10px;background:#eaf2fb;color:#1c2f52;\">인천<\/th><\/tr><\/thead><tbody><tr><th style=\"border:1px solid #d8e1ec;padding:10px;text-align:left;background:#f7faff;color:#1c2f52;\">도매요금(원/MJ)<\/th><td style=\"border:1px solid #d8e1ec;padding:10px;color:#1c2f52;\">20.8495<\/td><td style=\"border:1px solid #d8e1ec;padding:10px;color:#1c2f52;\">20.8495<\/td><\/tr><tr><th style=\"border:1px solid #d8e1ec;padding:10px;text-align:left;background:#f7faff;color:#1c2f52;\">소매공급비용(원/MJ)<\/th><td style=\"border:1px solid #d8e1ec;padding:10px;color:#1c2f52;\">1.6773<\/td><td style=\"border:1px solid #d8e1ec;padding:10px;color:#1c2f52;\">1.6589<\/td><\/tr><tr><th style=\"border:1px solid #d8e1ec;padding:10px;text-align:left;background:#f7faff;color:#1c2f52;\">주택용 소비자요금(원/MJ)<\/th><td style=\"border:1px solid #d8e1ec;padding:10px;color:#1c2f52;\">22.5268<\/td><td style=\"border:1px solid #d8e1ec;padding:10px;color:#1c2f52;\">22.5084<\/td><\/tr><tr><th style=\"border:1px solid #d8e1ec;padding:10px;text-align:left;background:#f7faff;color:#1c2f52;\">기본요금(월·가구)<\/th><td style=\"border:1px solid #d8e1ec;padding:10px;color:#1c2f52;\">1,250원<\/td><td style=\"border:1px solid #d8e1ec;padding:10px;color:#1c2f52;\">1,000원<\/td><\/tr><tr><th style=\"border:1px solid #d8e1ec;padding:10px;text-align:left;background:#f7faff;color:#1c2f52;\">4,241.84MJ 사용 시 부가세 포함<\/th><td style=\"border:1px solid #d8e1ec;padding:10px;color:#1c2f52;\">약 106,486원<\/td><td style=\"border:1px solid #d8e1ec;padding:10px;color:#1c2f52;\">약 106,125원<\/td><\/tr><\/tbody><\/table><\/div>\n<p>마지막 줄은 두 지역에서 사용열량이 똑같이 4,241.84MJ라고 놓고 비교한 값이에요. 실제로는 서울의 보정계수가 인천과 다를 수 있어서 같은 100㎥라도 MJ가 조금 달라집니다. 그래서 지역을 비교할 때는 ㎥보다 고지서의 사용열량(MJ)을 기준으로 잡는 편이 정확해요.<\/p>\n<p>두 지역 차이는 같은 열량 기준으로 한 달 약 361원입니다. 이 중 기본요금 차이 250원에 부가세를 붙인 275원이 대부분이고, 나머지는 MJ당 0.0184원 소매공급비용 차이에서 나와요. 이사를 앞두고 지역별 가스비를 비교한다면 단가보다 집의 단열과 사용 습관이 훨씬 큰 변수라는 뜻입니다.<\/p>\n<h2>고지서 금액이 예상과 다를 때 손해 보는 경우<\/h2>\n<p><img src=\"https://kmt9934.github.io/blog-review/b3/fig5.png\" alt=\"도시가스 요금 손해 사례 요약 카드\"><\/p>\n<p>계산한 금액과 고지서가 크게 다르면 먼저 지침 숫자를 봅니다. 고지서에는 기물번호가 인쇄돼 있는데, <a href=\"http://www.citygas.or.kr/service/faq/index.jsp?category_fk=4\" style=\"color:#174ea6;\">한국도시가스협회 FAQ<\/a>는 이 번호와 실제 계량기 번호가 맞는지 대조하라고 안내해요. 번호가 다르면 다른 집 계량기 사용량이 청구됐을 가능성이 있습니다.<\/p>\n<p>검침을 못 했거나 계량기가 고장 나면 공급규정 제21조(사용량의 산정)에 따라 사용량을 추정해 매깁니다. 이 경우 실제 사용량과 차이가 날 수 있고, 다음 정상 검침 때 차이가 정산되는 구조예요. 계량기가 집 안에 있는 집은 정해진 날 지침을 자가검침표에 적어 두면 추정 청구를 줄일 수 있습니다.<\/p>\n<div style=\"overflow-x:auto;margin:20px 0;\"><table style=\"width:100%;border-collapse:collapse;font-size:15px;line-height:1.55;border:1px solid #d8e1ec;\"><thead><tr><th style=\"border:1px solid #d8e1ec;padding:10px;background:#1c2f52;color:#fff;\">상황<\/th><th style=\"border:1px solid #d8e1ec;padding:10px;background:#eaf2fb;color:#1c2f52;\">결과<\/th><th style=\"border:1px solid #d8e1ec;padding:10px;background:#eaf2fb;color:#1c2f52;\">대응<\/th><\/tr><\/thead><tbody><tr><th style=\"border:1px solid #d8e1ec;padding:10px;text-align:left;background:#f7faff;color:#1c2f52;\">쓰지 않는 빈집<\/th><td style=\"border:1px solid #d8e1ec;padding:10px;color:#1c2f52;\">중지 신청 없으면 기본요금 계속 고지<\/td><td style=\"border:1px solid #d8e1ec;padding:10px;color:#1c2f52;\">도시가스회사에 사용 중지 신청<\/td><\/tr><tr><th style=\"border:1px solid #d8e1ec;padding:10px;text-align:left;background:#f7faff;color:#1c2f52;\">이사 오기 전 체납<\/th><td style=\"border:1px solid #d8e1ec;padding:10px;color:#1c2f52;\">명의변경 신청 없으면 권리·의무 승계<\/td><td style=\"border:1px solid #d8e1ec;padding:10px;color:#1c2f52;\">입주 전 체납 여부 조회<\/td><\/tr><tr><th style=\"border:1px solid #d8e1ec;padding:10px;text-align:left;background:#f7faff;color:#1c2f52;\">요금에 이의가 있음<\/th><td style=\"border:1px solid #d8e1ec;padding:10px;color:#1c2f52;\">통지받은 날부터 15일 이내 이의신청<\/td><td style=\"border:1px solid #d8e1ec;padding:10px;color:#1c2f52;\">7일 이내 심사 결과 통지<\/td><\/tr><tr><th style=\"border:1px solid #d8e1ec;padding:10px;text-align:left;background:#f7faff;color:#1c2f52;\">고지서를 못 받음<\/th><td style=\"border:1px solid #d8e1ec;padding:10px;color:#1c2f52;\">납부 마감 7일 전까지 송달이 원칙<\/td><td style=\"border:1px solid #d8e1ec;padding:10px;color:#1c2f52;\">지역관리소에 재송달 요청<\/td><\/tr><\/tbody><\/table><\/div>\n<p>이사철에는 정산이 자주 꼬여요. 도시가스는 쓴 뒤에 내는 후불제라서, 전출·전입일까지의 사용분은 나가는 사람과 들어오는 사람이 계량기 지침을 기준으로 직접 정산해야 합니다. 새로 이사 온 사람이 명의변경을 하지 않으면 전 사용자의 권리를 승계한 것으로 보기 때문에, 이사 당일 지침을 사진으로 남겨 두고 도시가스회사에 연락하는 순서가 안전해요.<\/p>\n<p>요금 자체에 이의가 있다면 기한이 짧습니다. <a href=\"https://easylaw.go.kr/CSP/CnpClsMain.laf?ccfNo=3&cciNo=1&cnpClsNo=1&csmSeq=1008\" style=\"color:#174ea6;\">찾기쉬운 생활법령정보<\/a>에 따르면 서울특별시 도시가스 공급규정 제23조 기준으로 통지를 받은 날부터 15일 안에 해당 도시가스회사에 이의신청을 해야 하고, 신청한 날부터 7일 안에 심사 내용을 통지받아요. 같은 안내에 도시가스요금에는 부가가치세 10%가 함께 청구된다는 근거(부가가치세법 제2조·제30조)도 정리돼 있습니다.<\/p>\n<h2>요금 경감 대상이라면 한도부터 계산하기<\/h2>\n<p><img src=\"https://kmt9934.github.io/blog-review/b3/fig6.png\" alt=\"도시가스 요금 경감 한도 요약 카드\"><\/p>\n<p>기초생활수급자, 차상위계층, 장애의 정도가 심한 장애인, 국가유공자(1~3급), 독립유공자, 다자녀가구(자녀 또는 손자녀 3명 이상)는 도시가스요금 경감을 받을 수 있어요. 금액은 <a href=\"https://www.kogas.or.kr/site/koGas/1020408030000\" style=\"color:#174ea6;\">한국가스공사 사회적 배려대상자 안내<\/a>에 실린 산업통상부고시 제2025-024호 기준이고, 기본요금을 뺀 사용요금에만 적용됩니다.<\/p>\n<div style=\"overflow-x:auto;margin:20px 0;\"><table style=\"width:100%;border-collapse:collapse;font-size:15px;line-height:1.55;border:1px solid #d8e1ec;\"><thead><tr><th style=\"border:1px solid #d8e1ec;padding:10px;background:#1c2f52;color:#fff;\">대상(에너지이용권 미수급)<\/th><th style=\"border:1px solid #d8e1ec;padding:10px;background:#eaf2fb;color:#1c2f52;\">동절기(12~3월) 월 한도<\/th><th style=\"border:1px solid #d8e1ec;padding:10px;background:#eaf2fb;color:#1c2f52;\">4~11월 월 한도<\/th><\/tr><\/thead><tbody><tr><th style=\"border:1px solid #d8e1ec;padding:10px;text-align:left;background:#f7faff;color:#1c2f52;\">생계·의료급여 수급자<\/th><td style=\"border:1px solid #d8e1ec;padding:10px;color:#1c2f52;\">148,000원<\/td><td style=\"border:1px solid #d8e1ec;padding:10px;color:#1c2f52;\">9,900원<\/td><\/tr><tr><th style=\"border:1px solid #d8e1ec;padding:10px;text-align:left;background:#f7faff;color:#1c2f52;\">주거급여 수급자, 차상위계층<\/th><td style=\"border:1px solid #d8e1ec;padding:10px;color:#1c2f52;\">148,000원<\/td><td style=\"border:1px solid #d8e1ec;padding:10px;color:#1c2f52;\">4,950원<\/td><\/tr><tr><th style=\"border:1px solid #d8e1ec;padding:10px;text-align:left;background:#f7faff;color:#1c2f52;\">교육급여 수급자<\/th><td style=\"border:1px solid #d8e1ec;padding:10px;color:#1c2f52;\">148,000원<\/td><td style=\"border:1px solid #d8e1ec;padding:10px;color:#1c2f52;\">2,470원<\/td><\/tr><tr><th style=\"border:1px solid #d8e1ec;padding:10px;text-align:left;background:#f7faff;color:#1c2f52;\">중증 장애인, 국가유공자, 독립유공자<\/th><td style=\"border:1px solid #d8e1ec;padding:10px;color:#1c2f52;\">72,000원<\/td><td style=\"border:1px solid #d8e1ec;padding:10px;color:#1c2f52;\">9,900원<\/td><\/tr><tr><th style=\"border:1px solid #d8e1ec;padding:10px;text-align:left;background:#f7faff;color:#1c2f52;\">다자녀가구, 차상위계층 확인서 발급대상<\/th><td style=\"border:1px solid #d8e1ec;padding:10px;color:#1c2f52;\">18,000원<\/td><td style=\"border:1px solid #d8e1ec;padding:10px;color:#1c2f52;\">2,470원<\/td><\/tr><\/tbody><\/table><\/div>\n<p>에너지바우처(에너지이용권)를 같이 받는 수급자·차상위계층은 동절기 한도가 월 86,000원으로 낮아져요. 자격이 두 개 이상이면 신청 때 가장 높은 한도가 적용됩니다. 그리고 변동 사항이 생긴 날부터 신청서를 낸 날까지는 소급 적용이 안 되기 때문에, 자격이 생긴 달에 바로 신청해야 손해가 없어요.<\/p>\n<div style=\"background:#f7faff;border:1px solid #cddbee;border-radius:14px;padding:16px 18px;margin:20px 0;color:#1c2f52;\"><h3 style=\"margin:0 0 8px;color:#1c2f52;\">12월에 150㎥를 쓴 두 가구 비교(인천 단가)<\/h3><ol style=\"margin:0;padding-left:20px;line-height:1.8;color:#1c2f52;\"><li style=\"color:#1c2f52;\">사용요금(기본요금 제외): 6,362.76MJ × 22.5084원 = 약 143,216원<\/li><li style=\"color:#1c2f52;\">다자녀가구: 한도 18,000원 경감 → 경감 뒤 사용요금 약 125,216원<\/li><li style=\"color:#1c2f52;\">생계급여 수급자(바우처 미수급): 한도 148,000원이 사용요금 143,216원보다 커서 사용요금 전액인 약 143,216원까지 경감<\/li><li style=\"color:#1c2f52;\">두 가구 모두 기본요금 1,000원은 경감 대상이 아니라 그대로 남습니다<\/li><\/ol><\/div>\n<p>같은 11월이라도 동절기 전이라 한도가 작다는 점이 함정이에요. 11월은 4~11월 구간이라 다자녀가구 한도가 2,470원이고, 12월 사용분부터 18,000원 한도가 적용됩니다. 신청은 주민등록표 주소지의 도시가스회사, 행정복지센터, 지방보훈청에 방문하거나 정부24·복지로에서 온라인으로 하면 되고, 수급자 증명이나 복지카드 같은 서류는 행정정보 공동이용에 동의하면 따로 내지 않아도 돼요.<\/p>\n<div style=\"background:#eef4fb;border:1px solid #cddbee;border-radius:14px;padding:16px 18px;margin:20px 0;color:#1c2f52;\"><h3 style=\"margin:0 0 8px;color:#1c2f52;\">요금 계산과 경감 신청 공식 페이지<\/h3><p style=\"margin:0 0 12px;line-height:1.7;color:#1c2f52;\">요금계산 화면은 사용계약번호와 이번 달 지침을 넣으면 대략적인 금액을 보여 줍니다. 경감 신청은 상시 접수예요.<\/p><p style=\"margin:0 0 8px;color:#1c2f52;\"><a class=\"official-link-btn\" href=\"https://www.gov.kr/portal/rcvfvrSvc/dtlEx/B55121000003\" style=\"display:inline-block;padding:10px 16px;border-radius:10px;background:#174ea6;color:#ffffff;font-weight:700;text-decoration:none;\">정부24 도시가스요금 경감 안내·신청 →<\/a><\/p><p style=\"margin:0 0 8px;color:#1c2f52;\"><a class=\"official-link-btn\" href=\"https://www.seoulgas.co.kr/front/payment/costCount\" style=\"display:inline-block;padding:10px 16px;border-radius:10px;background:#ffffff;border:2px solid #174ea6;color:#174ea6;font-weight:700;text-decoration:none;\">서울도시가스 요금계산 화면 열기 →<\/a><\/p><p style=\"margin:0 0 8px;color:#1c2f52;\"><a class=\"official-link-btn\" href=\"https://www.kogas.or.kr/site/koGas/userExpSplCal.do?Key=1040502000000\" style=\"display:inline-block;padding:10px 16px;border-radius:10px;background:#ffffff;border:2px solid #174ea6;color:#174ea6;font-weight:700;text-decoration:none;\">한국가스공사 월별 예상열량 조회 →<\/a><\/p><\/div>\n<h3>이 글의 숫자 출처<\/h3><ul><li><a href=\"https://www.seoulgas.co.kr/front/payment/gasPayTable\">서울도시가스 가스요금표(2026년 10월 1일 단가표)<\/a><\/li><li><a href=\"https://www.seoulgas.co.kr/front/customer/infoBill\">서울도시가스 요금계산·청구서 보는 방법<\/a><\/li><li><a href=\"https://sftc.seoul.go.kr/seoul/mulga/main/contents.do?menuNo=200012\">서울시 물가정보 도시가스 용도별 소비자요금<\/a><\/li><li><a href=\"https://www.incheon.go.kr/eco/ECO020806\">인천광역시 도시가스요금 안내(2026. 8. 1. 기준)<\/a><\/li><li><a href=\"https://www.kogas.or.kr/site/koGas/userExpSplCal.do?Key=1040502000000\">한국가스공사 예상열량 조회<\/a><\/li><li><a href=\"https://www.kogas.or.kr/site/koGas/1020408030000\">한국가스공사 사회적 배려대상자 경감 기준<\/a><\/li><li><a href=\"https://www.gov.kr/portal/rcvfvrSvc/dtlEx/B55121000003\">정부24 사회적 배려대상자 도시가스요금 경감<\/a><\/li><li><a href=\"https://easylaw.go.kr/CSP/CnpClsMain.laf?ccfNo=3&cciNo=1&cnpClsNo=1&csmSeq=1008\">찾기쉬운 생활법령정보 도시가스 사용하기<\/a><\/li><li><a href=\"http://www.citygas.or.kr/service/faq/index.jsp?category_fk=4\">한국도시가스협회 자주 묻는 질문<\/a><\/li><\/ul>"}};
 const TABS = ["b3"];
 for (const id of TABS) {
   const p = POSTS[id];

diff --git a/b3/article.html b/b3/article.html
@@ -1,4 +1,4 @@
-<h1>도시가스 요금 계산법: 100㎥ 쓰면 약 10만 6천 원, 보정계수·평균열량 넣어 겨울 난방비 미리 보기</h1>
+<h1>도시가스 요금 직접 계산하는 법 (100㎥ 예시)</h1>
 <p>보일러를 다시 켜는 11월이 되면 첫 고지서 금액을 보고 놀라는 집이 많아요. 계량기 숫자 100㎥를 인천 지역 2026년 10월 기준값으로 계산하면 부가세까지 약 106,125원이 나옵니다. 1㎥에 대략 1,050원꼴이라, 이번 달 계량기 숫자만 알면 고지서가 오기 전에 금액을 어림할 수 있어요.</p>
 <p>이 글은 숫자 예시부터 보여 주고, 그 숫자가 어떤 공식에서 나왔는지 하나씩 풀어 봅니다. 요금 공식은 <a href="https://www.seoulgas.co.kr/front/payment/costCount" style="color:#174ea6;">서울도시가스 요금계산 안내</a>와 <a href="https://www.incheon.go.kr/eco/ECO020806" style="color:#174ea6;">인천광역시 도시가스요금 안내</a>에 적힌 산식을 그대로 썼고, 평균열량은 <a href="https://www.kogas.or.kr/site/koGas/userExpSplCal.do?Key=1040502000000" style="color:#174ea6;">한국가스공사 예상열량 조회</a>의 2026년 10월 전국(육지권역) 예상값 42.653MJ/N㎥를 넣었습니다. 단가와 계수는 2026년 10월 25일 기준이에요.</p>
 <h2>100㎥ 쓴 달, 고지서 공식 그대로 계산해 보기</h2>
